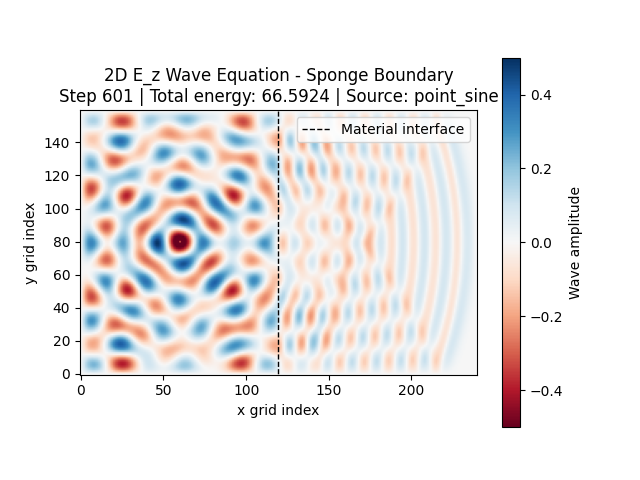
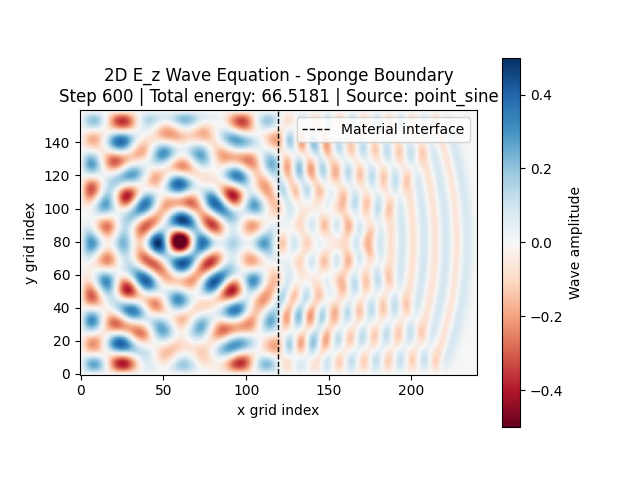
Fix animation initialization and finalize Phase 2.3

diff --git a/wavesim/visualization.py b/wavesim/visualization.py
@@ -100,11 +100,7 @@ def create_wave_animation(
         label="Wave amplitude",
     )
 
-    def update(_frame: int) -> list:
-        simulation.advance()
-        simulation.print_progress_if_needed()
-
-        field_image.set_array(simulation.state.current.T)
+    def update_title() -> None:
         axis.set_title(
             "2D E_z Wave Equation - "
             f"{config.boundary.kind.capitalize()} Boundary\n"
@@ -113,11 +109,25 @@ def create_wave_animation(
             f"Source: {config.source.kind}"
         )
 
+    def initialize_animation() -> list:
+        """Draw the initial state without advancing the simulation."""
+        field_image.set_array(simulation.state.current.T)
+        update_title()
+        return [field_image]
+
+    def update(_frame: int) -> list:
+        simulation.advance()
+        simulation.print_progress_if_needed()
+
+        field_image.set_array(simulation.state.current.T)
+        update_title()
+
         return [field_image]
 
     return FuncAnimation(
         figure,
         update,
+        init_func=initialize_animation,
         frames=config.time.steps,
         interval=visualization.animation_interval_ms,
         blit=False,

diff --git a/notes/simulation-logs/phase_2/2026-07-28_002_planar_dielectric_interface.md b/notes/simulation-logs/phase_2/2026-07-28_002_planar_dielectric_interface.md
@@ -1077,24 +1077,13 @@ The image confirms:
 - a vertical interface at the intended position;
 - minimum and maximum indices of 1.0 and 1.5.
 
-The field and energy figures have not yet been saved. Their recommended output
-locations are:
-
-```text
-outputs/figures/phase_2/2026-07-28_planar_interface_field.png
-outputs/figures/phase_2/2026-07-28_planar_interface_energy.png
-```
-
-A useful field snapshot should be taken around steps 220 to 300. At that
-stage, transmission is established while long-time boundary effects remain
-limited. After the files are saved, they can be included here as:
-
 ![Planar-interface field](../../../outputs/figures/phase_2/2026-07-28_planar_interface_field.png)
+
+Figure 2. Final field for the Phase 2.3 scenario. The dashed line marks the planar dielectric interface. The higher-index region shows slower propagation and a shorter wavelength.
 
 ![Planar-interface energy](../../../outputs/figures/phase_2/2026-07-28_planar_interface_energy.png)
 
-The pending figures do not affect the automated numerical tests, but adding
-them will complete the visual experiment record.
+Figure 3. Total scalar-wave energy during continuous excitation. Energy rises because the source continuously injects energy while the sponge removes part of the outgoing field.
 
 ---
 
@@ -1197,12 +1186,11 @@ finiteness are checked automatically.
 [x] Slower propagation in the higher-index material was observed
 [x] Representative material-map figure saved
 [x] Representative field and energy figures saved
-[ ] README updated for Phase 2.3
-[ ] Phase 2.3 commit created
+[x] README updated for Phase 2.3
+[x] Phase 2.3 commit created
 ```
 
-The numerical implementation is complete. The unchecked items are phase
-documentation and repository-closeout tasks.
+All Phase 2.3 implementation, verification, documentation, figure, and repository closeout items are complete.
 
 ---
 
